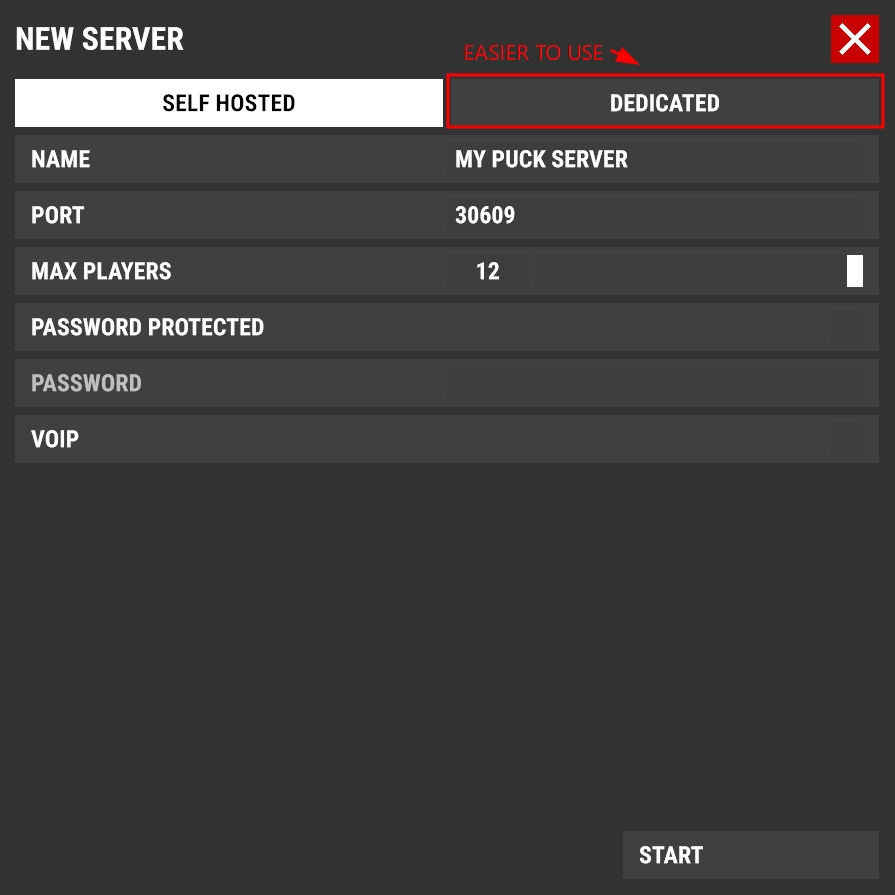
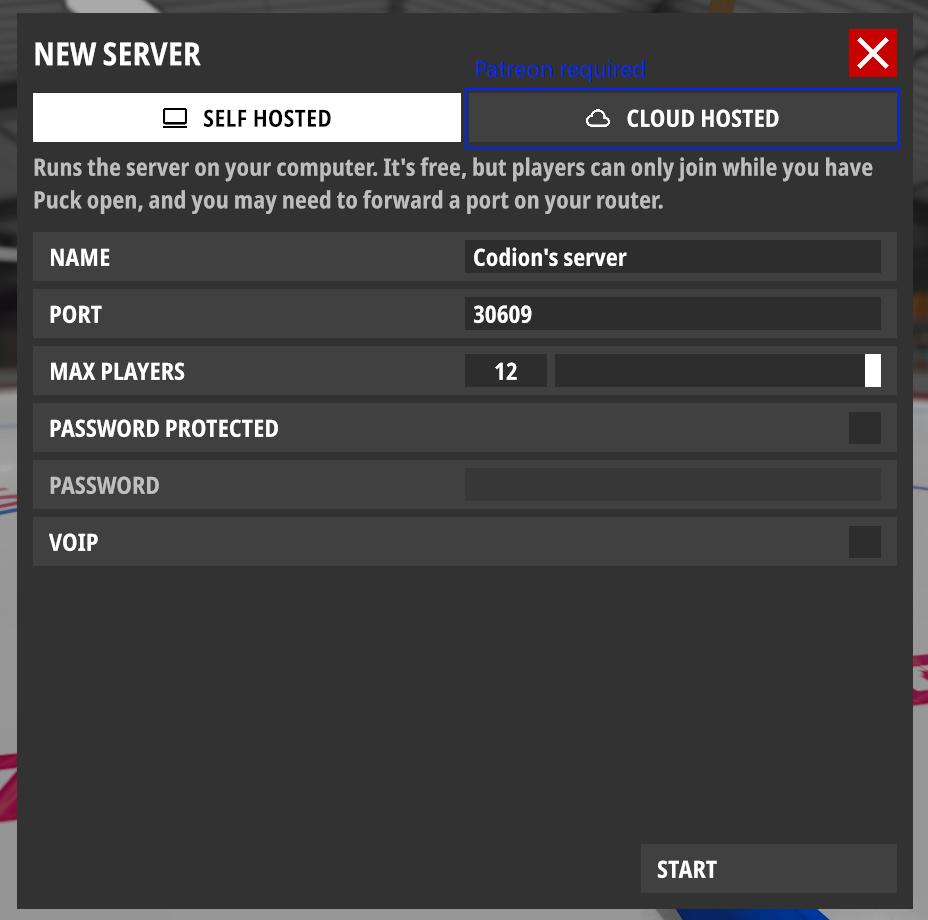
Update Index.html with B1235 changes
- Add note for patreon servers
- Add guide date
- Remove 2026 footer
- Use term "Cloud Hosted" instead of dedicated
- Update images for server browser and menus

diff --git a/index.html b/index.html
@@ -45,13 +45,13 @@
 	<body>
 		<header>
 			<nav>
-				<a href="https://github.com/CodionCA/PuckGuide" target="_blank">
-					<svg class="icon" viewBox="0 0 32 32">
+				<div class="build-badge">
+					<svg viewBox="0 0 24 24">
 						<path
-							d="M16 0.395c-8.836 0-16 7.163-16 16 0 7.069 4.585 13.067 10.942 15.182 0.8 0.148 1.094-0.347 1.094-0.77 0-0.381-0.015-1.642-0.022-2.979-4.452 0.968-5.391-1.888-5.391-1.888-0.728-1.849-1.776-2.341-1.776-2.341-1.452-0.993 0.11-0.973 0.11-0.973 1.606 0.113 2.452 1.649 2.452 1.649 1.427 2.446 3.743 1.739 4.656 1.33 0.143-1.034 0.558-1.74 1.016-2.14-3.554-0.404-7.29-1.777-7.29-7.907 0-1.747 0.625-3.174 1.649-4.295-0.166-0.403-0.714-2.030 0.155-4.234 0 0 1.344-0.43 4.401 1.64 1.276-0.355 2.645-0.532 4.005-0.539 1.359 0.006 2.729 0.184 4.008 0.539 3.054-2.070 4.395-1.64 4.395-1.64 0.871 2.204 0.323 3.831 0.157 4.234 1.026 1.12 1.647 2.548 1.647 4.295 0 6.145-3.743 7.498-7.306 7.895 0.574 0.497 1.085 1.47 1.085 2.963 0 2.141-0.019 3.864-0.019 4.391 0 0.426 0.288 0.925 1.099 0.768 6.354-2.118 10.933-8.113 10.933-15.18 0-8.837-7.164-16-16-16z"></path>
+							d="M9 11H7v2h2v-2zm4 0h-2v2h2v-2zm4 0h-2v2h2v-2zm2-7h-1V2h-2v2H8V2H6v2H5c-1.1 0-1.99.9-1.99 2L3 20c0 1.1.89 2 2 2h14c1.1 0 2-.9 2-2V6c0-1.1-.9-2-2-2zm0 16H5V9h14v11z" />
 					</svg>
-					Github
-				</a>
+					Last updated for Build B1235 - 2026-09-28
+				</div>
 			</nav>
 
 			<h1>Puck Guide</h1>
@@ -91,13 +91,17 @@
 					<ul>
 						<li>
 							<strong>Server Type:</strong> Choose between "Self Hosted" or
-							"Dedicated"
+							"Cloud Hosted" (Previously known as "Dedicated")
 							<ul>
 								<li>
 									<em
-										>Self Hosted means on your own system and network. Dedicated
-										uses Puck's official servers, but they're limited in tick
-										rate and can feel <a href="#tickrate">sluggish</a></em
+										>"Self Hosted" means on your own system and network. "Cloud
+										Hosted" uses Puck's official servers, and requires a
+										<a href="https://www.patreon.com/c/puckgame/membership"
+											>Patreon Subscription</a
+										>
+										but they're more limited in modding & tick rate and can feel
+										<a href="#tickrate">sluggish</a></em
 									>
 								</li>
 							</ul>
@@ -393,7 +397,7 @@
 							<path
 								d="M9 11H7v2h2v-2zm4 0h-2v2h2v-2zm4 0h-2v2h2v-2zm2-7h-1V2h-2v2H8V2H6v2H5c-1.1 0-1.99.9-1.99 2L3 20c0 1.1.89 2 2 2h14c1.1 0 2-.9 2-2V6c0-1.1-.9-2-2-2zm0 16H5V9h14v11z" />
 						</svg>
-						This guide was last updated for Build B323
+						This guide was last updated for Build B1235
 					</div>
 					<h4>Prerequisites</h4>
 					<ul>
@@ -862,7 +866,6 @@ systemctl start puck@server1</code></pre>
 
 		<footer>
 			<p>Quickly put together by #15 Codion</p>
-			<small>© 2026</small>
 		</footer>
 	</body>
 	<script>
